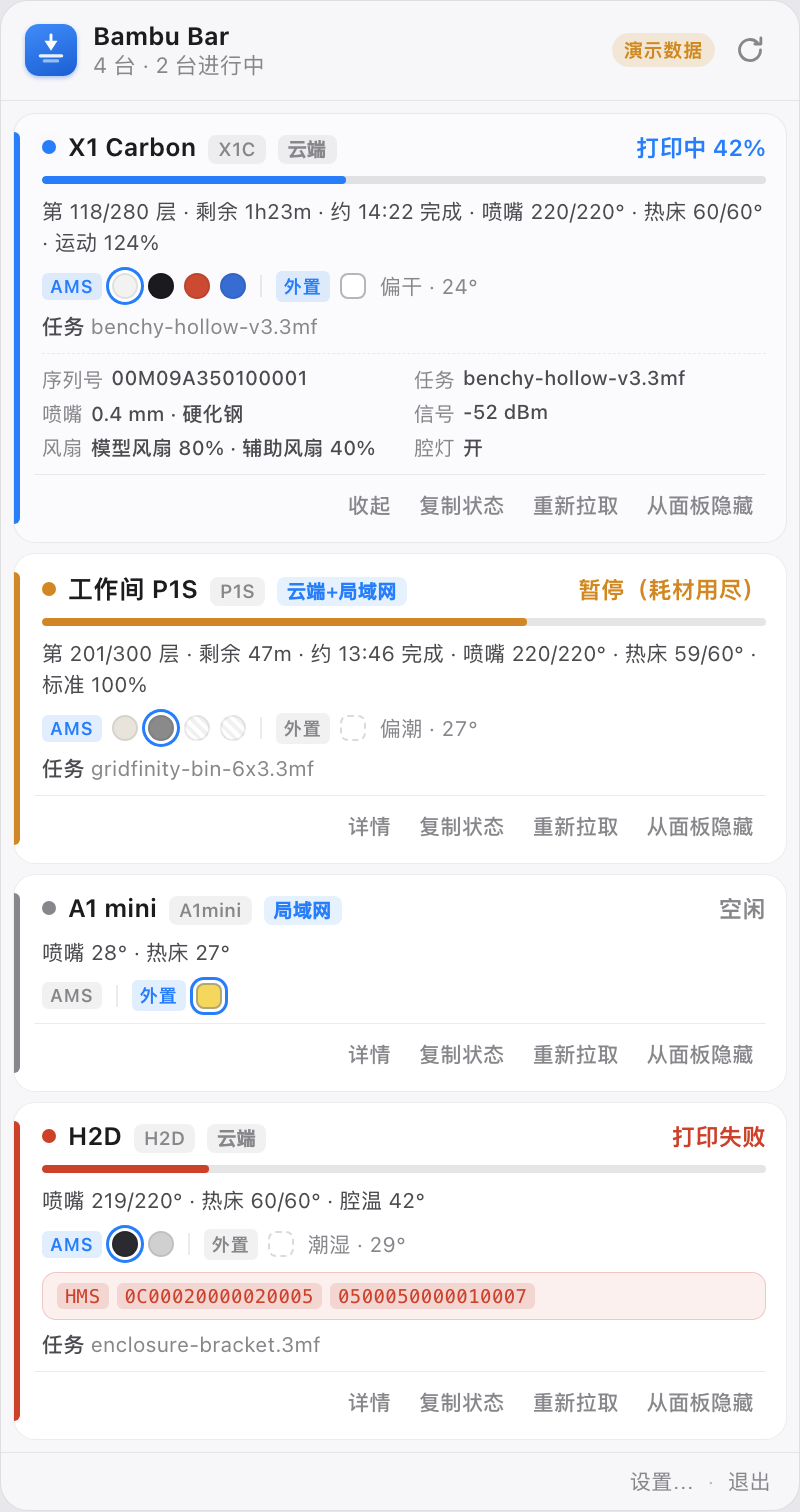
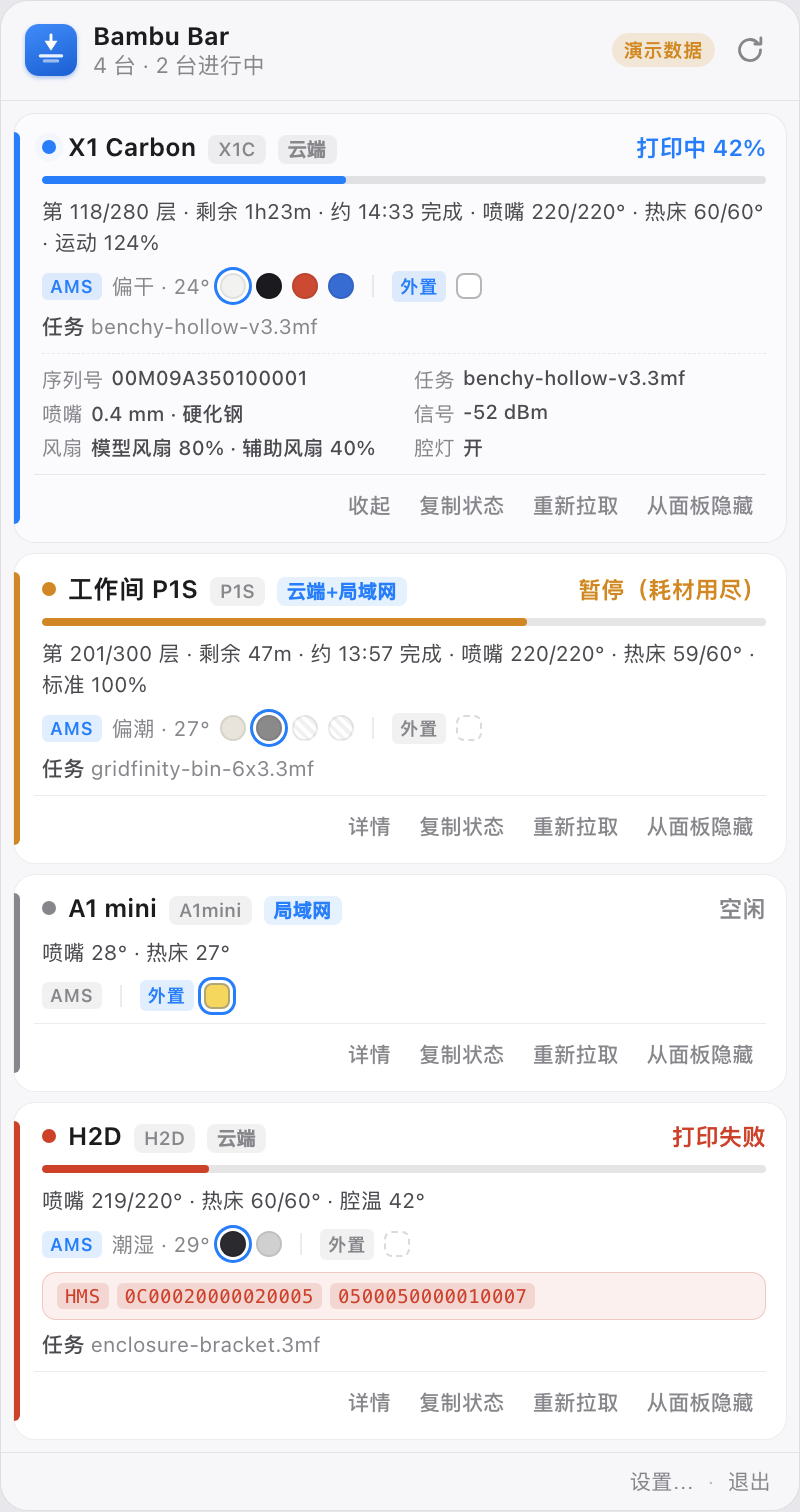
面板：AMS 温湿度移到 AMS 段内（紧跟标签），不再落在行末被读成外置的温度

diff --git a/src/popover/popover.js b/src/popover/popover.js
@@ -250,6 +250,20 @@ function updateCard(v) {
     const amsTag = el('span', 'ams-tag' + (amsSlots ? ' on' : ''), t('card.ams'));
     amsTag.title = amsSlots ? t('card.slots', { n: amsSlots }) : t('card.amsOff');
     q.ams.append(amsTag);
+
+    // AMS 自身的温湿度紧跟在「AMS」标签后面 —— 它是 AMS 单元上报的读数，
+    // 既不是打印机腔温（那条走 chamber_temper / device.ctc，按机型门控），
+    // 也不是外置料盘的属性。放在行末（外置段之后）会被读成「外置 29°」。
+    const info = [];
+    const u0 = units[0];
+    if (u0 && u0.humidityText) info.push(t('hum.' + u0.humidityText));
+    if (u0 && u0.temp != null) info.push(`${Math.round(u0.temp)}°`);
+    if (info.length) {
+      const meta = el('span', 'ams-meta', info.join(' · '));
+      meta.title = t('card.amsEnv');
+      q.ams.append(meta);
+    }
+
     units.forEach((u, ui) => {
       if (ui > 0) q.ams.append(el('span', 'ams-sep'));
       for (const s of u.slots) {
@@ -272,12 +286,6 @@ function updateCard(v) {
     if (hasExt && f.external.color) d.style.setProperty('--c', f.external.color);
     d.title = hasExt ? t('card.amsExt') : t('card.extOff');
     q.ams.append(d);
-
-    const info = [];
-    const u0 = units[0];
-    if (u0 && u0.humidityText) info.push(t('hum.' + u0.humidityText));
-    if (u0 && u0.temp != null) info.push(`${Math.round(u0.temp)}°`);
-    if (info.length) q.ams.append(el('span', 'ams-meta', info.join(' · ')));
   }
   show(q.ams, q.ams.childElementCount > 0);
 

diff --git a/src/popover/style.css b/src/popover/style.css
@@ -310,9 +310,12 @@ body {
   border-style: dashed;
   opacity: .5;
 }
-.ams-sep { width: 1px; height: 11px; background: var(--line); margin: 0 2px; }
-/* 湿度 / 温度：跟着 AMS 段走，不参与两个标签的对齐 */
-.ams-meta { color: var(--muted); font-variant-numeric: tabular-nums; margin-left: 2px; }
+/* 段内分隔（AMS 多单元之间、AMS 段与外置段之间）。
+   两段之间那道要更宽一点：AMS 段里既有料点又有温湿度，边界不拉开容易读成同一串。 */
+.ams-sep { width: 1px; height: 11px; background: var(--line); margin: 0 4px; }
+/* AMS 单元上报的温湿度（AMS 内部传感器，不是打印机腔温）：紧跟在 AMS 标签后面，
+   属于 AMS 段，不属于外置段。 */
+.ams-meta { color: var(--muted); font-variant-numeric: tabular-nums; }
 
 /* 任务名 */
 .job {

diff --git a/scripts/gen-xhs.js b/scripts/gen-xhs.js
@@ -393,7 +393,7 @@ pages.push({
       </div>
       <div class="card" style="padding:22px 26px">
         <h3 style="font-size:27px">耗材</h3>
-        <p style="font-size:20px">当前耗材颜色 · AMS 各槽颜色+材料+余量 · 外置耗材单列 · AMS 湿度档与仓温</p>
+        <p style="font-size:20px">当前耗材颜色 · AMS 各槽颜色+材料+余量 · 外置耗材单列 · AMS 内部温湿度</p>
       </div>
       <div class="card" style="padding:22px 26px">
         <h3 style="font-size:27px">机器</h3>

diff --git a/src/config/ui-strings.js b/src/config/ui-strings.js
@@ -43,6 +43,7 @@ const UI = {
     'card.ams': 'AMS',
     'card.ext': '外置',
     'card.amsExt': '外置耗材',
+    'card.amsEnv': 'AMS 内部温湿度',
     'card.amsOff': '未接 AMS',
     'card.extOff': '未接外置耗材',
     'card.dry': '干燥',
@@ -203,6 +204,7 @@ const UI = {
     'card.ams': 'AMS',
     'card.ext': 'EXT',
     'card.amsExt': 'External spool',
+    'card.amsEnv': 'AMS internal temp / humidity',
     'card.amsOff': 'No AMS',
     'card.extOff': 'No external spool',
     'card.dry': 'dry',

diff --git a/README.md b/README.md
@@ -31,7 +31,7 @@
 | 状态 | 打印中 / 准备中（含 78 种 `stg_cur` 阶段精确文案）/ 换料中 / 暂停（缺料、堵头、温控异常、首层异常、舱门…）/ 完成 / 失败（按官方 HMS 码表归到「断料 / 堵头 / 温度 / 机械 / 校准 / 打印板 / 喷嘴 / AMS」大类）/ 离线 / 登录失效 |
 | 任务 | 文件名（`subtask_name` / `gcode_file`）、进度百分比、当前层 / 总层、剩余时间、**按本机时区算出的预计完成时刻**（跨自然日标 `+1`、`+2`） |
 | 温度 | 喷嘴（当前 / 目标）、热床（当前 / 目标）；腔温**只在带腔温控制器的机型上显示**（H2C / H2D / H2D Pro / H2S / X1E / X2D），其余机型整行不显示 |
-| 耗材 | 当前耗材颜色（双喷头按 `extruder.snow` 定位主喷头）、AMS 各槽颜色 + 材料 + 余量（悬停查看）、外置耗材单列（`AMS` / `外置` 两个标签各自亮起或置灰）、AMS 湿度档与仓温 |
+| 耗材 | 当前耗材颜色（双喷头按 `extruder.snow` 定位主喷头）、AMS 各槽颜色 + 材料 + 余量（悬停查看）、外置耗材单列（`AMS` / `外置` 两个标签各自亮起或置灰）、AMS 内部温湿度（`ams.ams[].humidity` / `.temp`，**不是**打印机腔温） |
 | 机器 | 速度档（静音 / 标准 / 运动 / 狂暴 + 倍率）、WiFi 信号、喷嘴直径与材质、风扇（模型 / 辅助 / 腔体）、腔灯、舱门 |
 | 错误 | HMS 码（16 位十六进制，悬停显示官方文案）、`fail_reason` 与官方原因长句 |
 
@@ -74,7 +74,10 @@
 | 外挂料盘 | 圆点画成方形实线框（`.slot.ext`），与 AMS 槽区分；没接时只剩半透明虚框占位 |
 
 耗材这一行分两段，各带一个标签：`AMS` 和 `外置`。标签的状态就是这台机器的配置 ——
-**有料亮起（`.ams-tag.on`，主色淡底）、没接置灰**。之所以要两个标签：A1 mini 这类只挂
+**有料亮起（`.ams-tag.on`，主色淡底）、没接置灰**。AMS 的温湿度（`偏干 · 24°`）紧跟在
+`AMS` 标签后面，留在 AMS 段里 —— 它是 AMS 单元自带传感器的读数（`ams.ams[].humidity` /
+`.temp`），既不是打印机腔温，也不属于外置料盘；早前画在行末，被读成「外置 24°」。
+之所以要两个标签：A1 mini 这类只挂
 外挂料盘、不带 AMS 的机器，最早的版本把料点挂在唯一的「AMS」标签后面，读起来像
 「AMS 里装着一卷白料」。机器没接外挂时标签后面留一个空心虚框（`.slot.ext.none`）占位，
 四台机器横着扫的时候两段位置一致。
@@ -271,7 +274,7 @@ Built on top of [YingyiDai/bambu-buddy](https://github.com/YingyiDai/bambu-buddy
   <img src="preview/settings-printers.png" width="250" alt="Settings · printers">
 </p>
 
-**What each card shows:** status (printing / preparing with exact `stg_cur` stage / changing filament / paused with reason / finished / failed with official HMS category / offline / session expired), job name, percent, layer, remaining time, estimated finish time in your timezone (with `+1` day markers), nozzle / bed temperatures, current filament colour, every AMS slot plus the external spool and AMS humidity, speed profile, WiFi signal, nozzle spec, fans, chamber light, door, HMS codes and the official failure reason.
+**What each card shows:** status (printing / preparing with exact `stg_cur` stage / changing filament / paused with reason / finished / failed with official HMS category / offline / session expired), job name, percent, layer, remaining time, estimated finish time in your timezone (with `+1` day markers), nozzle / bed temperatures, current filament colour, every AMS slot plus the external spool, the AMS unit's own internal humidity band and temperature (`ams.ams[].humidity` / `.temp` — not the printer's chamber temperature, which is model-gated separately), speed profile, WiFi signal, nozzle spec, fans, chamber light, door, HMS codes and the official failure reason.
 
 **Chamber temperature is model-gated.** Printers without a chamber sensor still report a `chamber_temper` field, but on an A1 / P1S / P1Sc it is a fixed `5` — all three of mine report the same value while their nozzles sit at 21–24 °C and beds at 21–22 °C, i.e. room temperature. It is a firmware placeholder, not a reading, so showing it produces a fake temperature. The capability list therefore comes from Bambu Studio's own machine profiles (`support_chamber_temp_control`; every model defaults to 0 and only H2C, H2D, H2D Pro, H2S, X1E and X2D override it to 1 — note X1 Carbon is 0). A `device.ctc.info.temp` field in the report wins over the list, so a newly released model works without waiting for an update. See `resolveChamberTemp()` in `src/core/printer-view.js`.
 
